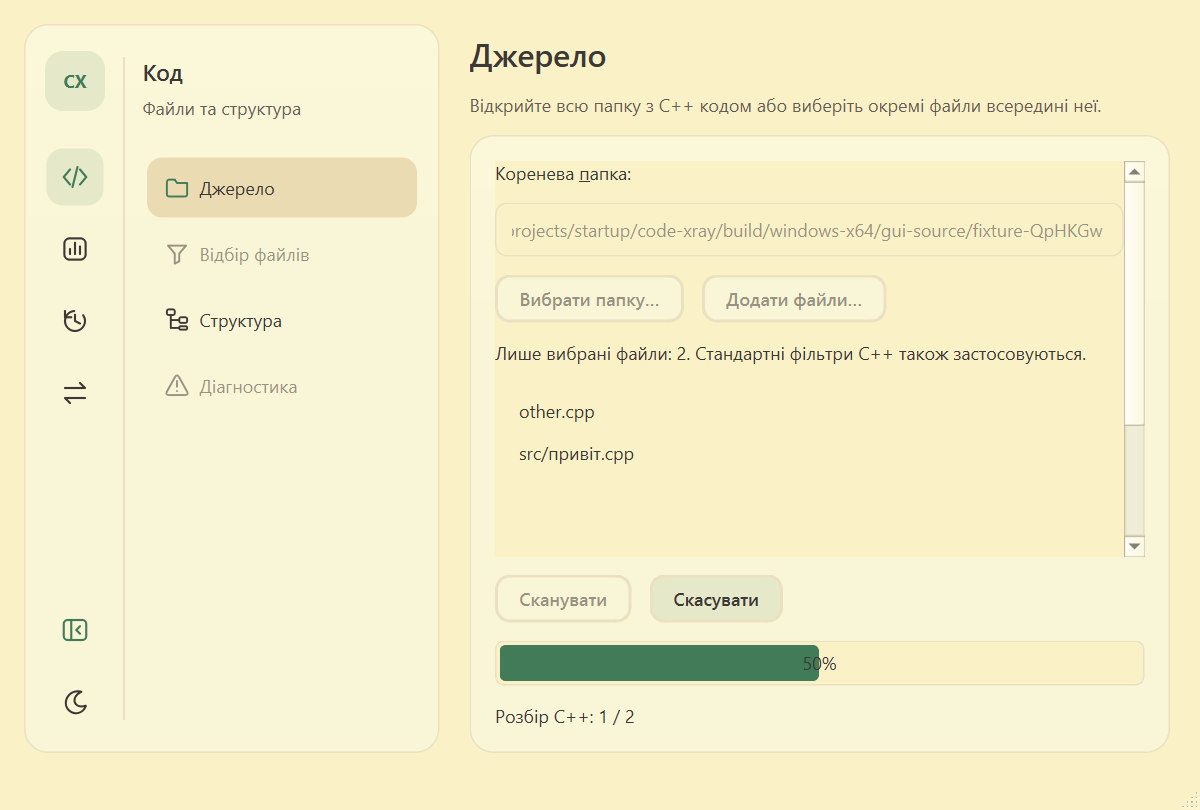
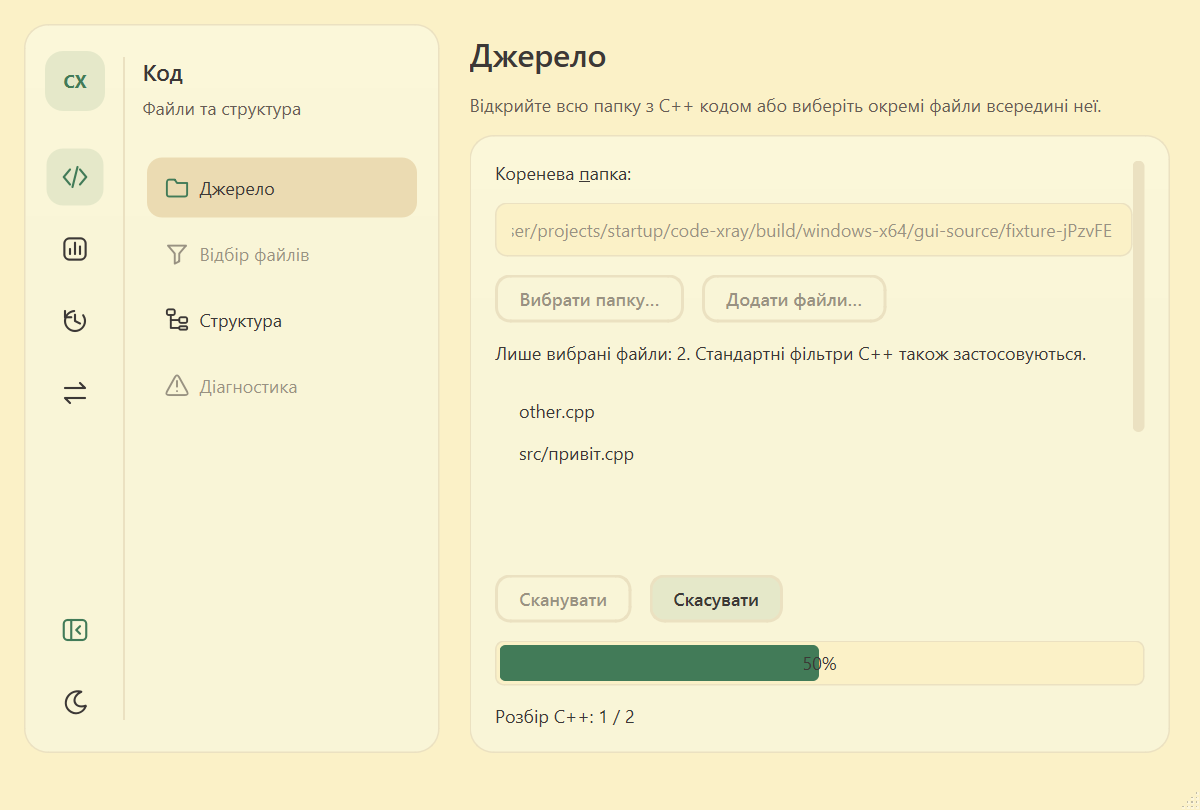
fix(ui): style source panel and scrollbars

Changed region(s): [[0.4317, 0.1852, 0.9558, 0.5247], [0.925, 0.6481, 0.9558, 0.679]]

diff --git a/src/ui/shared/theme.cpp b/src/ui/shared/theme.cpp
@@ -4,6 +4,7 @@
 #include <QColor>
 #include <QPalette>
 #include <QSettings>
+#include <QScrollBar>
 #include <QString>
 
 namespace xray::ui {
@@ -15,6 +16,15 @@ QColor blend(const QColor& from, const QColor& to, qreal amount) {
         from.blueF() + (to.blueF() - from.blueF()) * amount);
 }
 } // namespace
+
+void styleWorkspaceScrollBar(QScrollBar* scrollBar) {
+    scrollBar->setStyleSheet(QStringLiteral(R"QSS(
+        QScrollBar:vertical { background: transparent; border: none; width: 8px; margin: 0; }
+        QScrollBar::handle:vertical { background: palette(mid); min-height: 28px; border-radius: 4px; }
+        QScrollBar::add-line:vertical, QScrollBar::sub-line:vertical { height: 0; }
+        QScrollBar::add-page:vertical, QScrollBar::sub-page:vertical { background: transparent; }
+    )QSS"));
+}
 
 SyntaxColors syntaxColors(const QPalette& palette) {
     const bool dark =
@@ -195,20 +205,24 @@ void applyTheme(QApplication& application, Theme theme) {
             border-radius: 6px; padding: 2px; min-height: 18px; text-align: center;
         }
         QProgressBar#sourceProgress::chunk { background: %7; border-radius: 4px; }
+        QScrollArea#sourceFormScroll, QScrollArea#sourceFormScroll > QWidget#qt_scrollarea_viewport,
+        QWidget#sourceFormContents { background: transparent; border: none; }
         QSplitter#structureSplit::handle { background: transparent; }
         QToolTip {
             background: %2; color: %5; border: 1px solid %4;
             border-radius: 8px; padding: 7px 10px;
         }
         QWidget#pagesPanel QScrollBar:vertical,
-        QTreeWidget#structureTree QScrollBar:vertical,
+        QScrollBar#structureScrollBar:vertical,
+        QScrollBar#sourceFormScrollBar:vertical,
         QPlainTextEdit#sourceCode QScrollBar:vertical,
         QTableWidget QScrollBar:vertical,
         QTableView QScrollBar:vertical {
             width: 8px; background: transparent; margin: 0;
         }
         QWidget#pagesPanel QScrollBar::handle:vertical,
-        QTreeWidget#structureTree QScrollBar::handle:vertical,
+        QScrollBar#structureScrollBar::handle:vertical,
+        QScrollBar#sourceFormScrollBar::handle:vertical,
         QPlainTextEdit#sourceCode QScrollBar::handle:vertical,
         QTableWidget QScrollBar::handle:vertical,
         QTableView QScrollBar::handle:vertical {
@@ -216,8 +230,10 @@ void applyTheme(QApplication& application, Theme theme) {
         }
         QWidget#pagesPanel QScrollBar::add-line:vertical,
         QWidget#pagesPanel QScrollBar::sub-line:vertical,
-        QTreeWidget#structureTree QScrollBar::add-line:vertical,
-        QTreeWidget#structureTree QScrollBar::sub-line:vertical,
+        QScrollBar#structureScrollBar::add-line:vertical,
+        QScrollBar#structureScrollBar::sub-line:vertical,
+        QScrollBar#sourceFormScrollBar::add-line:vertical,
+        QScrollBar#sourceFormScrollBar::sub-line:vertical,
         QPlainTextEdit#sourceCode QScrollBar::add-line:vertical,
         QPlainTextEdit#sourceCode QScrollBar::sub-line:vertical,
         QTableWidget QScrollBar::add-line:vertical,
@@ -226,8 +242,10 @@ void applyTheme(QApplication& application, Theme theme) {
         QTableView QScrollBar::sub-line:vertical { height: 0; }
         QWidget#pagesPanel QScrollBar::add-page:vertical,
         QWidget#pagesPanel QScrollBar::sub-page:vertical,
-        QTreeWidget#structureTree QScrollBar::add-page:vertical,
-        QTreeWidget#structureTree QScrollBar::sub-page:vertical,
+        QScrollBar#structureScrollBar::add-page:vertical,
+        QScrollBar#structureScrollBar::sub-page:vertical,
+        QScrollBar#sourceFormScrollBar::add-page:vertical,
+        QScrollBar#sourceFormScrollBar::sub-page:vertical,
         QPlainTextEdit#sourceCode QScrollBar::add-page:vertical,
         QPlainTextEdit#sourceCode QScrollBar::sub-page:vertical,
         QTableWidget QScrollBar::add-page:vertical,

diff --git a/tests/ui/source_tests.cpp b/tests/ui/source_tests.cpp
@@ -13,6 +13,8 @@
 #include <QProgressBar>
 #include <QPushButton>
 #include <QSettings>
+#include <QScrollBar>
+#include <QStackedWidget>
 #include <QSignalSpy>
 #include <QTemporaryDir>
 #include <QTest>
@@ -52,6 +54,7 @@ int main(int argc, char** argv) {
     app.setOrganizationName("CodeXrayGuiTests");
     app.setApplicationName("Source");
     xray::ui::installPopupStyle(app);
+    xray::ui::applyTheme(app, xray::ui::Theme::dark);
     const QString output = app.arguments().value(1);
     if (!output.isEmpty()) require(QDir().mkpath(output), "Could not create render directory");
     QTemporaryDir fixture((output.isEmpty() ? QDir::tempPath() : output) + "/fixture-XXXXXX");
@@ -184,6 +187,27 @@ int main(int argc, char** argv) {
         waitFor([&] { return start->isEnabled(); });
         require(message->text().contains(QString::fromUtf8("файлів немає")) && tree->topLevelItemCount() == 0,
             "An empty valid root must be a successful empty result");
+        navigation->setCurrentRow(2);
+        for (int i = 0; i < 100; ++i)
+            new QTreeWidgetItem(tree, QStringList{QString("item-%1").arg(i)});
+        tree->setEnabled(true);
+        child<QStackedWidget>(window, "structureContent")->setCurrentWidget(tree);
+        app.processEvents();
+        auto* treeScroll = tree->verticalScrollBar();
+        require(treeScroll->maximum() > 0 && treeScroll->width() <= 12,
+            "Structure tree must have a narrow scrollbar when its contents overflow");
+        treeScroll->setValue(0);
+        treeScroll->triggerAction(QAbstractSlider::SliderSingleStepAdd);
+        require(treeScroll->value() > 0, "Styled scrollbar must still scroll");
+        for (const auto theme : {Theme::dark, Theme::light}) {
+            applyTheme(app, theme);
+            app.processEvents();
+            require(treeScroll->width() <= 12 && treeScroll->maximum() > 0,
+                "Scrollbar must keep its size and range after changing theme");
+            if (!output.isEmpty()) require(window.grab().save(output + (theme == Theme::dark
+                ? "/scroll-dark.png" : "/scroll-light.png")), "Could not render scrollbar");
+        }
+        navigation->setCurrentRow(0);
         source->setDirectory(root);
         source->addFiles({first, second});
         source->showResult(QString::fromUtf8("Готово · контрольний вигляд сторінки."), true);

diff --git a/src/ui/code/source_page.cpp b/src/ui/code/source_page.cpp
@@ -1,4 +1,5 @@
 #include "source_page.hpp"
+#include "ui/shared/theme.hpp"
 
 #include <QDir>
 #include <QFileInfo>
@@ -11,6 +12,7 @@
 #include <QProgressBar>
 #include <QPushButton>
 #include <QScrollArea>
+#include <QScrollBar>
 #include <QVBoxLayout>
 
 #include <algorithm>
@@ -42,9 +44,13 @@ SourcePage::SourcePage(QWidget* parent) : QWidget(parent) {
     body->setSpacing(12);
     layout->addWidget(panel, 1);
     auto* scroll = new QScrollArea(panel);
+    scroll->setObjectName("sourceFormScroll");
+    scroll->verticalScrollBar()->setObjectName("sourceFormScrollBar");
+    styleWorkspaceScrollBar(scroll->verticalScrollBar());
     scroll->setFrameShape(QFrame::NoFrame);
     scroll->setWidgetResizable(true);
     auto* formWidget = new QWidget(scroll);
+    formWidget->setObjectName("sourceFormContents");
     auto* form = new QVBoxLayout(formWidget);
     form->setContentsMargins(0, 0, 0, 0);
     form->setSpacing(12);

diff --git a/src/ui/code/structure_page.cpp b/src/ui/code/structure_page.cpp
@@ -1,5 +1,6 @@
 #include "structure_page.hpp"
 #include "ui/shared/icons.hpp"
+#include "ui/shared/theme.hpp"
 #include "code_view.hpp"
 
 #include <QApplication>
@@ -13,6 +14,7 @@
 #include <QSplitter>
 #include <QSplitterHandle>
 #include <QStackedWidget>
+#include <QScrollBar>
 #include <QTreeWidget>
 #include <QVBoxLayout>
 #include <QSignalBlocker>
@@ -288,6 +290,8 @@ StructurePage::StructurePage(QWidget* parent) : QWidget(parent) {
     tree_ = new QTreeWidget(treeContent);
     tree_->setItemDelegate(new EntityDelegate(tree_));
     tree_->setObjectName("structureTree");
+    tree_->verticalScrollBar()->setObjectName("structureScrollBar");
+    styleWorkspaceScrollBar(tree_->verticalScrollBar());
     tree_->setHeaderHidden(true);
     tree_->setColumnCount(1);
     tree_->setUniformRowHeights(true);

diff --git a/src/ui/shared/theme.hpp b/src/ui/shared/theme.hpp
@@ -4,6 +4,7 @@
 
 class QApplication;
 class QPalette;
+class QScrollBar;
 
 namespace xray::ui {
 
@@ -25,5 +26,6 @@ SyntaxColors syntaxColors(const QPalette& palette);
 Theme loadTheme();
 void saveTheme(Theme theme);
 void applyTheme(QApplication& application, Theme theme);
+void styleWorkspaceScrollBar(QScrollBar* scrollBar);
 
 } // namespace xray::ui

diff --git a/docs/gui-source.md b/docs/gui-source.md
@@ -95,3 +95,10 @@ ctest --preset windows-x64 --output-on-failure
 [світла тема](screenshots/gui-source-light.png),
 [прогрес і скасування у вузькому вікні](screenshots/gui-source-progress.png).
 Зображення показують контрольні дані тесту, а не аналіз користувацького проєкту.
+
+Додаткова GUI-перевірка 2026-10-31: `gui_source`, `gui_snapshot` і
+`gui_design` — 3/3. Прокручувана форма використовує прозорий фон панелі;
+вертикальні смуги форми й дерева мають стиль із ролей палітри. `gui_source`
+перевіряє ширину та діапазон смуги заповненого дерева, прокручування й зміну
+теми; рендери обох тем переглянуто. Прокручування перетягуванням і колесом
+миші потребує ручної перевірки.
